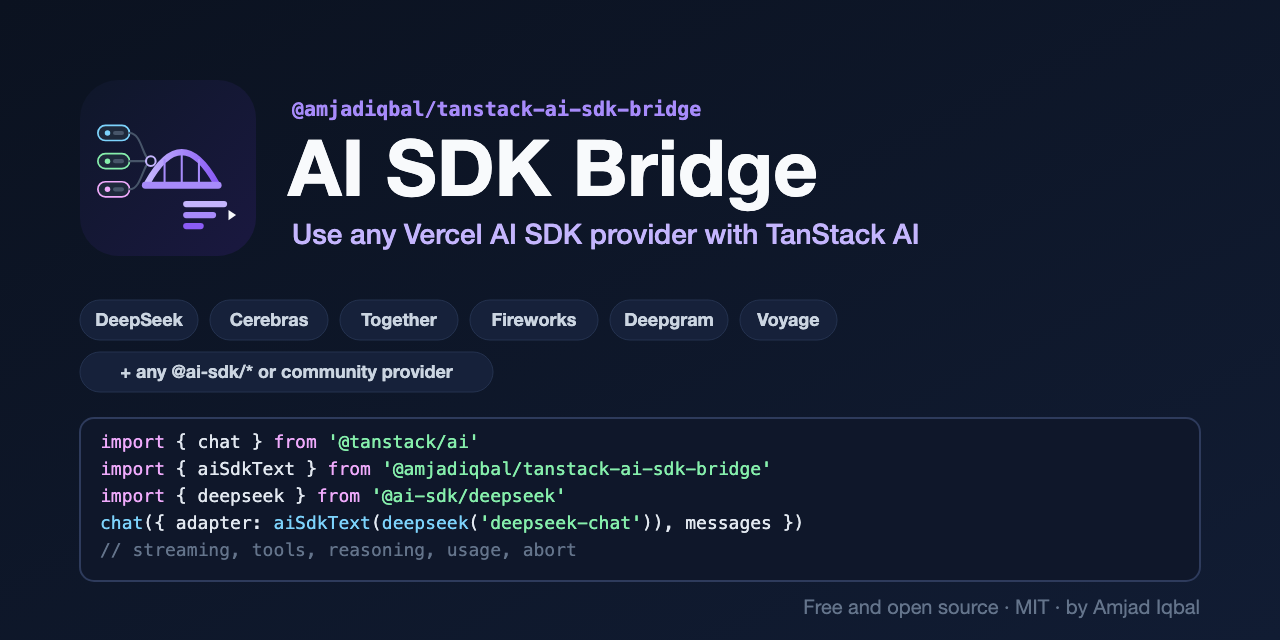
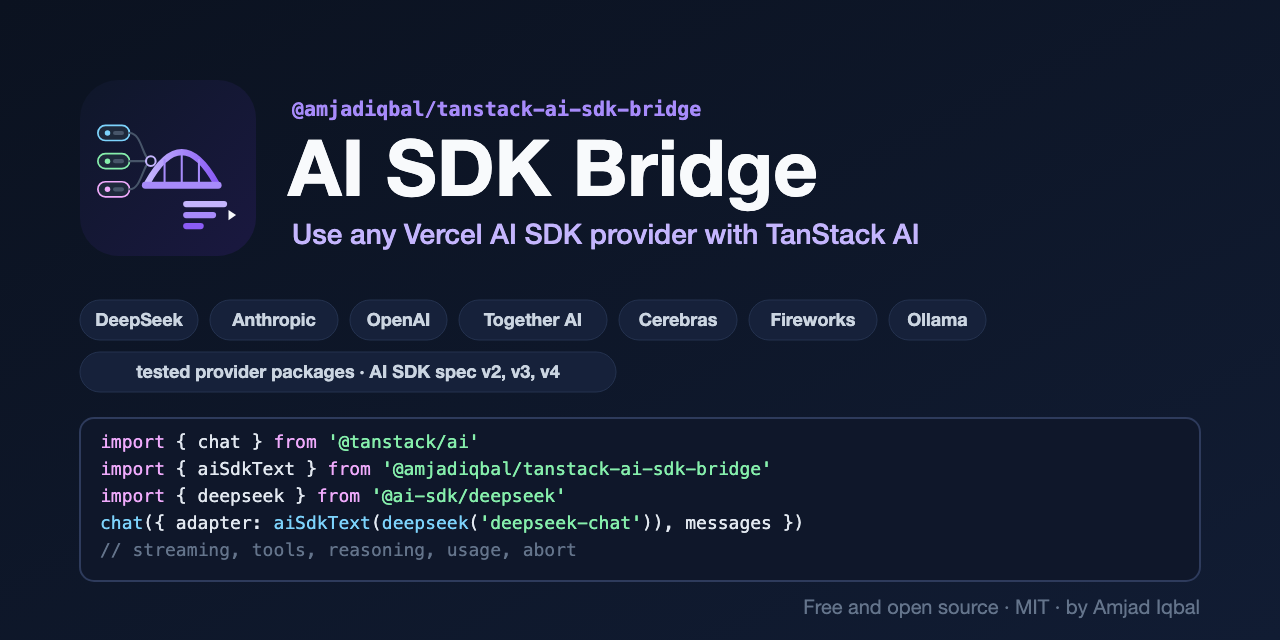
Release 0.1.0

diff --git a/src/image.ts b/src/image.ts
@@ -133,8 +133,8 @@ export class AiSdkImageAdapter<TModel extends string = string> extends BaseImage
  *
  * @example
  * import { generateImage } from '@tanstack/ai'
- * import { replicate } from '@ai-sdk/replicate'
- * await generateImage({ adapter: aiSdkImage(replicate.image('black-forest-labs/flux-schnell')), prompt: 'a lighthouse' })
+ * import { openai } from '@ai-sdk/openai'
+ * await generateImage({ threadId, adapter: aiSdkImage(openai.image('gpt-image-1')), prompt: 'a lighthouse' })
  */
 export function aiSdkImage(model: AiSdkImageModel, options?: AiSdkAdapterOptions): AiSdkImageAdapter<string> {
   return new AiSdkImageAdapter(model, options);

diff --git a/src/speech.ts b/src/speech.ts
@@ -96,7 +96,7 @@ export class AiSdkSpeechAdapter<TModel extends string = string> extends BaseTTSA
  * @example
  * import { generateSpeech } from '@tanstack/ai'
  * import { openai } from '@ai-sdk/openai'
- * await generateSpeech({ adapter: aiSdkSpeech(openai.speech('gpt-4o-mini-tts')), text: 'Hello', voice: 'alloy' })
+ * await generateSpeech({ threadId, adapter: aiSdkSpeech(openai.speech('gpt-4o-mini-tts')), text: 'Hello', voice: 'alloy' })
  */
 export function aiSdkSpeech(model: AiSdkSpeechModel, options?: AiSdkAdapterOptions): AiSdkSpeechAdapter<string> {
   return new AiSdkSpeechAdapter(model, options);

diff --git a/src/transcription.ts b/src/transcription.ts
@@ -109,8 +109,8 @@ export class AiSdkTranscriptionAdapter<TModel extends string = string> extends B
  *
  * @example
  * import { generateTranscription } from '@tanstack/ai'
- * import { deepgram } from '@ai-sdk/deepgram'
- * await generateTranscription({ adapter: aiSdkTranscription(deepgram.transcription('nova-3')), audio: file })
+ * import { openai } from '@ai-sdk/openai'
+ * await generateTranscription({ threadId, adapter: aiSdkTranscription(openai.transcription('whisper-1')), audio: file })
  */
 export function aiSdkTranscription(
   model: AiSdkTranscriptionModel,

diff --git a/src/text.ts b/src/text.ts
@@ -482,7 +482,7 @@ export class AiSdkTextAdapter<TModel extends string = string> extends BaseTextAd
  * @example
  * import { chat } from '@tanstack/ai'
  * import { deepseek } from '@ai-sdk/deepseek'
- * chat({ adapter: aiSdkText(deepseek('deepseek-chat')), messages })
+ * chat({ adapter: aiSdkText(deepseek('deepseek-chat')), messages, threadId })
  */
 export function aiSdkText(model: AiSdkLanguageModel, options?: AiSdkAdapterOptions): AiSdkTextAdapter<string> {
   return new AiSdkTextAdapter(model, options);

diff --git a/art/gen.py b/art/gen.py
@@ -129,8 +129,8 @@ def social(c):
   <text x="292" y="116" font-family="{MONO}" font-size="20" font-weight="600" fill="{c["accent"]}">{NAME}</text>
   <text x="288" y="196" font-family="{SANS}" font-size="78" font-weight="700" fill="{c["text"]}">AI SDK Bridge</text>
   <text x="292" y="244" font-family="{SANS}" font-size="28" font-weight="500" fill="{c["sub"]}">Use any Vercel AI SDK provider with TanStack AI</text>
-  {chips(80, 300, ["DeepSeek", "Cerebras", "Together", "Fireworks", "Deepgram", "Voyage"], c, size=18, h=40, gap=12, cw=10.2)}
-  {chips(80, 352, ["+ any @ai-sdk/* or community provider"], c, size=18, h=40, gap=12, cw=10.2)}
+  {chips(80, 300, ["DeepSeek", "Anthropic", "OpenAI", "Together AI", "Cerebras", "Fireworks", "Ollama"], c, size=18, h=40, gap=12, cw=10.2)}
+  {chips(80, 352, ["tested provider packages · AI SDK spec v2, v3, v4"], c, size=18, h=40, gap=12, cw=10.2)}
   {code_card(80, 418, 1120, c, LONG[:3] + LONG[4:6], size=18, lh=27)}
   <text x="1200" y="614" text-anchor="end" font-family="{SANS}" font-size="20" fill="{c["foot"]}">Free and open source · MIT · by Amjad Iqbal</text>
 </svg>

diff --git a/README.md b/README.md
@@ -7,7 +7,9 @@
 
 # TanStack AI SDK Bridge: use Vercel AI SDK providers with TanStack AI
 
-Use any Vercel AI SDK provider (`@ai-sdk/*` and community providers) as a [TanStack AI](https://tanstack.com/ai) adapter. DeepSeek, Cerebras, Together AI, Fireworks, DeepInfra, Deepgram, AssemblyAI, Voyage, Replicate, Luma and every other AI SDK provider work with `chat()`, `embed()`, `generateTranscription()`, `generateSpeech()`, `generateImage()` and `rerank()`, without a dedicated TanStack adapter. It is also the shortest path for moving an AI SDK app to TanStack AI: keep your provider setup and change the rest step by step.
+Use any Vercel AI SDK provider (`@ai-sdk/*` and community providers) as a [TanStack AI](https://tanstack.com/ai) adapter. The bridge reads the AI SDK provider spec (v2, v3 and v4), so a provider package works with `chat()`, `embed()`, `generateTranscription()`, `generateSpeech()`, `generateImage()` and `rerank()` without a dedicated TanStack adapter. It is also the shortest path for moving an AI SDK app to TanStack AI: keep your provider setup and change the rest step by step.
+
+Tested with: `@ai-sdk/deepseek`, `@ai-sdk/anthropic`, `@ai-sdk/openai`, `@ai-sdk/togetherai`, `@ai-sdk/cerebras`, `@ai-sdk/fireworks`, `@ai-sdk/cohere` (rerank), `ollama-ai-provider-v2` and `@ai-sdk/openai-compatible` 1.x, 2.x and 3.x (AI SDK 5, 6 and 7). See [What is tested](#what-is-tested).
 
 [![npm](https://img.shields.io/npm/v/@amjadiqbal/tanstack-ai-sdk-bridge?style=flat-square)](https://www.npmjs.com/package/@amjadiqbal/tanstack-ai-sdk-bridge)
 [![TanStack AI](https://img.shields.io/badge/TanStack%20AI-1.x-8B5CF6?style=flat-square)](https://tanstack.com/ai)
@@ -21,6 +23,7 @@ import { deepseek } from '@ai-sdk/deepseek'
 const stream = chat({
   adapter: aiSdkText(deepseek('deepseek-chat')),
   messages: [{ role: 'user', content: 'Hello!' }],
+  threadId: 'thread-1',
 })
 ```
 
@@ -93,7 +96,7 @@ const getWeather = toolDefinition({
   inputSchema: z.object({ city: z.string() }),
 }).server(async ({ city }) => ({ city, tempC: 21 }))
 
-chat({ adapter: aiSdkText(deepseek('deepseek-chat')), messages, tools: [getWeather] })
+chat({ adapter: aiSdkText(deepseek('deepseek-chat')), messages, threadId, tools: [getWeather] })
 ```
 
 ### Structured output
@@ -102,6 +105,7 @@ chat({ adapter: aiSdkText(deepseek('deepseek-chat')), messages, tools: [getWeath
 const product = await chat({
   adapter: aiSdkText(deepseek('deepseek-chat')),
   messages: [{ role: 'user', content: 'Invent a product.' }],
+  threadId: 'product-1',
   outputSchema: z.object({ name: z.string(), price: z.number() }),
   stream: false,
 })
@@ -145,9 +149,13 @@ Large inputs are split by the model's `maxEmbeddingsPerCall`. `dimensions` works
 import { generateImage, generateSpeech, generateTranscription, rerank } from '@tanstack/ai'
 import { aiSdkImage, aiSdkRerank, aiSdkSpeech, aiSdkTranscription } from '@amjadiqbal/tanstack-ai-sdk-bridge'
 
-await generateTranscription({ adapter: aiSdkTranscription(deepgram.transcription('nova-3')), audio: file })
-await generateSpeech({ adapter: aiSdkSpeech(openai.speech('gpt-4o-mini-tts')), text: 'Hello', voice: 'alloy' })
-await generateImage({ adapter: aiSdkImage(replicate.image('black-forest-labs/flux-schnell')), prompt: 'a lighthouse at dusk' })
+import { openai } from '@ai-sdk/openai'
+import { cohere } from '@ai-sdk/cohere'
+
+const threadId = 'media-1'
+await generateTranscription({ threadId, adapter: aiSdkTranscription(openai.transcription('whisper-1')), audio: file })
+await generateSpeech({ threadId, adapter: aiSdkSpeech(openai.speech('gpt-4o-mini-tts')), text: 'Hello', voice: 'alloy' })
+await generateImage({ threadId, adapter: aiSdkImage(openai.image('gpt-image-1')), prompt: 'a lighthouse at dusk' })
 await rerank({ adapter: aiSdkRerank(cohere.reranking('rerank-v3.5')), query: 'refund policy', documents })
 ```
 
@@ -183,10 +191,23 @@ A practical order: move the server route and client first with the bridge, ship,
 
 ## What is tested
 
-- Unit tests (Vitest) run every adapter against AI SDK's own `MockLanguageModelV3/V4`, `MockEmbeddingModelV4`, `MockTranscriptionModelV4`, `MockSpeechModelV4`, `MockImageModelV4` and `MockRerankingModelV4` from `ai/test`, plus hand-written spec-v2 models, through the real `chat()`, `embed()`, `generateTranscription()`, `generateSpeech()`, `generateImage()` and `rerank()` of `@tanstack/ai` 1.0.0.
-- Integration tests run real provider packages over HTTP against [aimock](https://github.com/CopilotKit/aimock), a local server that speaks the providers' wire formats: TESTED-PROVIDERS.
-- A TanStack Start app with `@tanstack/ai-react` `useChat` was used in a real browser with the packed tarball: BROWSER-TEST.
-- **Not tested against live provider APIs** (no API keys were used). Wire-level mocks cover the request and stream formats, not every model's behaviour.
+Everything below ran on 2026-10-23 with `@tanstack/ai` 1.0.0. **No live provider API was called and no API key was used**: the real provider packages talked HTTP to [aimock](https://github.com/CopilotKit/aimock) 1.46, a local server that speaks each provider's wire format. That covers the request and stream formats, not every model's behaviour.
+
+| Provider package | Spec | Chat stream | Tool loop | Structured output | Other |
+|---|---|---|---|---|---|
+| `@ai-sdk/deepseek` 3.0 | v4 | ✓ | ✓ | ✓ | reasoning ✓ |
+| `@ai-sdk/anthropic` 4.0 | v4 | ✓ | ✓ | ✓ | reasoning ✓ |
+| `@ai-sdk/openai` 4.0 (Responses and Chat Completions) | v4 | ✓ | ✓ | ✓ | embeddings, image, speech, transcription ✓ |
+| `@ai-sdk/togetherai` 3.0 | v4 | ✓ | ✓ | ✓ | |
+| `@ai-sdk/cerebras` 3.0 | v4 | ✓ | ✓ | ✓ | |
+| `@ai-sdk/fireworks` 3.0 | v4 | ✓ | ✓ | ✓ | |
+| `ollama-ai-provider-v2` 4.1 | v4 | ✓ | ✓ | ✓ | |
+| `@ai-sdk/cohere` 4.0 | v4 | | | | rerank ✓ |
+| `@ai-sdk/openai-compatible` 3.x / 2.x / 1.x (AI SDK 7 / 6 / 5) | v4 / v3 / v2 | ✓ | ✓ | ✓ | |
+
+- **Unit tests** run every adapter against AI SDK's own `MockLanguageModelV3/V4`, `MockEmbeddingModelV4`, `MockTranscriptionModelV4`, `MockSpeechModelV4`, `MockImageModelV4` and `MockRerankingModelV4` (from `ai/test`) and hand-written spec v2 models, through the real `chat()`, `embed()`, `generateTranscription()`, `generateSpeech()`, `generateImage()` and `rerank()`: streaming, tool calls with and without input deltas, `toolChoice`, reasoning levels, errors, abort, structured output, batching by `maxEmbeddingsPerCall` and `maxImagesPerCall`, and v2/v3/v4 file parts.
+- **In a real browser**: a TanStack Start 1.169 app with `@tanstack/ai-react` `useChat`, a `/api/chat` server route as in the example above, and the packed npm tarball installed. Seen working: streamed replies through `@ai-sdk/deepseek` and `@ai-sdk/anthropic`, a server tool call and its result followed by the final answer, reasoning shown before the answer, a second turn on the same thread, the Stop button ending a stream mid-reply, structured output through both providers, and embeddings through `@ai-sdk/openai`.
+- **Not tested**: live provider APIs, other AI SDK providers, Vue/Solid/Svelte clients (the bridge runs on the server, so the client framework should not matter), and Cohere chat/embeddings and Ollama embeddings (aimock's responses for those fail the providers' own validation).
 
 ## Limits
 

diff --git a/CHANGELOG.md b/CHANGELOG.md
@@ -4,3 +4,11 @@ All notable changes to `@amjadiqbal/tanstack-ai-sdk-bridge` are documented here.
 The format follows [Keep a Changelog](https://keepachangelog.com/en/1.1.0/), and the project uses [Semantic Versioning](https://semver.org/).
 
 ## [Unreleased]
+
+## [0.1.0] - 2026-10-23
+
+### Added
+
+- `aiSdkText()`: AI SDK language models as TanStack AI text adapters, with streaming text, tool calls, reasoning, structured output, token usage and abort.
+- `aiSdkEmbedding()`, `aiSdkTranscription()`, `aiSdkSpeech()`, `aiSdkImage()` and `aiSdkRerank()` for the other AI SDK model kinds.
+- Support for AI SDK provider spec v2, v3 and v4 (AI SDK 5, 6 and 7 providers).
